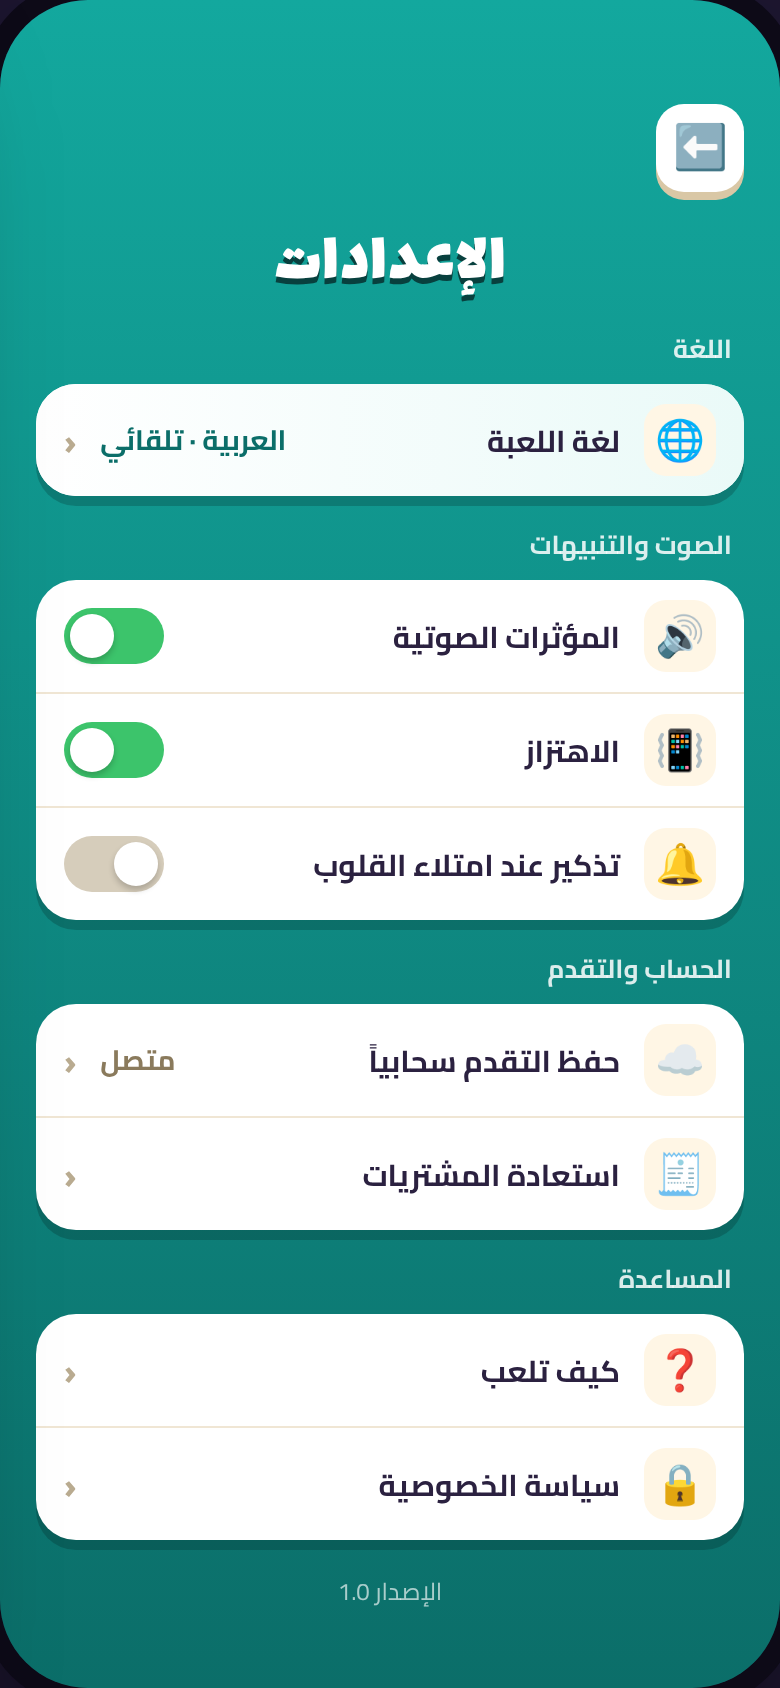
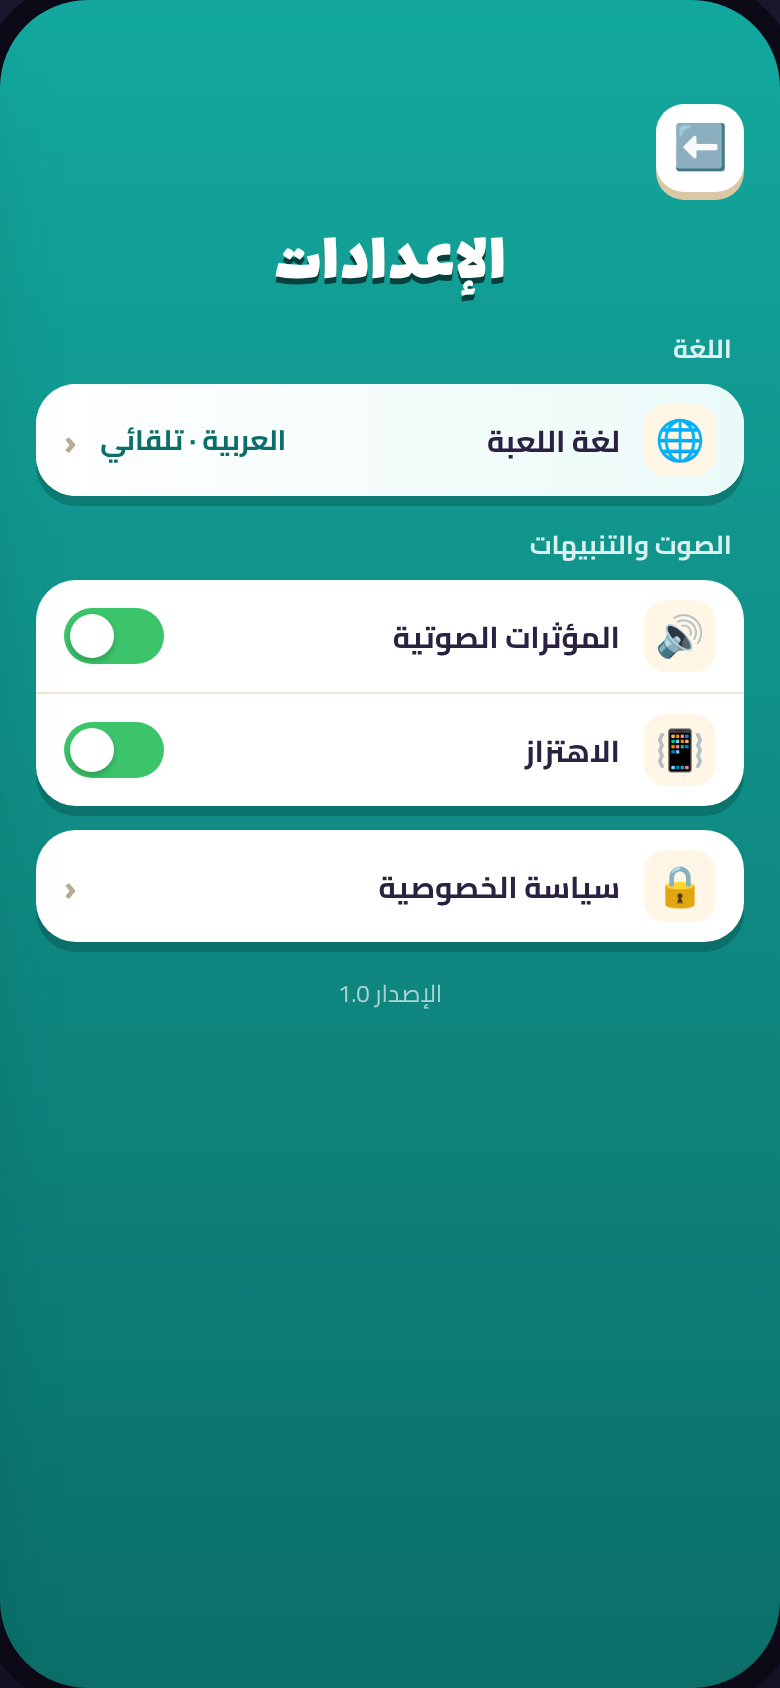
Mockups: trim settings screen
Claude-Session: https://claude.ai/code/session_0198GSpUHpAsMi38EfXjb44N

Changed region(s): [[0.0308, 0.4621, 0.9538, 0.955]]

diff --git a/design/mockups/shelf-sort-mockups.html b/design/mockups/shelf-sort-mockups.html
@@ -646,16 +646,9 @@ body { font-family: "Cairo", sans-serif; background: #1d1630; color: var(--ink);
       <div class="set-card">
         <div class="set-row"><div class="ri"><i class="emoji">🔊</i></div><b>المؤثرات الصوتية</b><span class="tg on"></span></div>
         <div class="set-row"><div class="ri"><i class="emoji">📳</i></div><b>الاهتزاز</b><span class="tg on"></span></div>
-        <div class="set-row"><div class="ri"><i class="emoji">🔔</i></div><b>تذكير عند امتلاء القلوب</b><span class="tg"></span></div>
       </div></div>
-    <div class="set-group"><h4>الحساب والتقدم</h4>
+    <div class="set-group">
       <div class="set-card">
-        <div class="set-row"><div class="ri"><i class="emoji">☁</i></div><b>حفظ التقدم سحابياً</b><span class="val">متصل</span><span class="chev">‹</span></div>
-        <div class="set-row"><div class="ri"><i class="emoji">🧾</i></div><b>استعادة المشتريات</b><span class="chev">‹</span></div>
-      </div></div>
-    <div class="set-group"><h4>المساعدة</h4>
-      <div class="set-card">
-        <div class="set-row"><div class="ri"><i class="emoji">❓</i></div><b>كيف تلعب</b><span class="chev">‹</span></div>
         <div class="set-row"><div class="ri"><i class="emoji">🔒</i></div><b>سياسة الخصوصية</b><span class="chev">‹</span></div>
       </div></div>
     <div class="set-ver">الإصدار 1.0</div>
